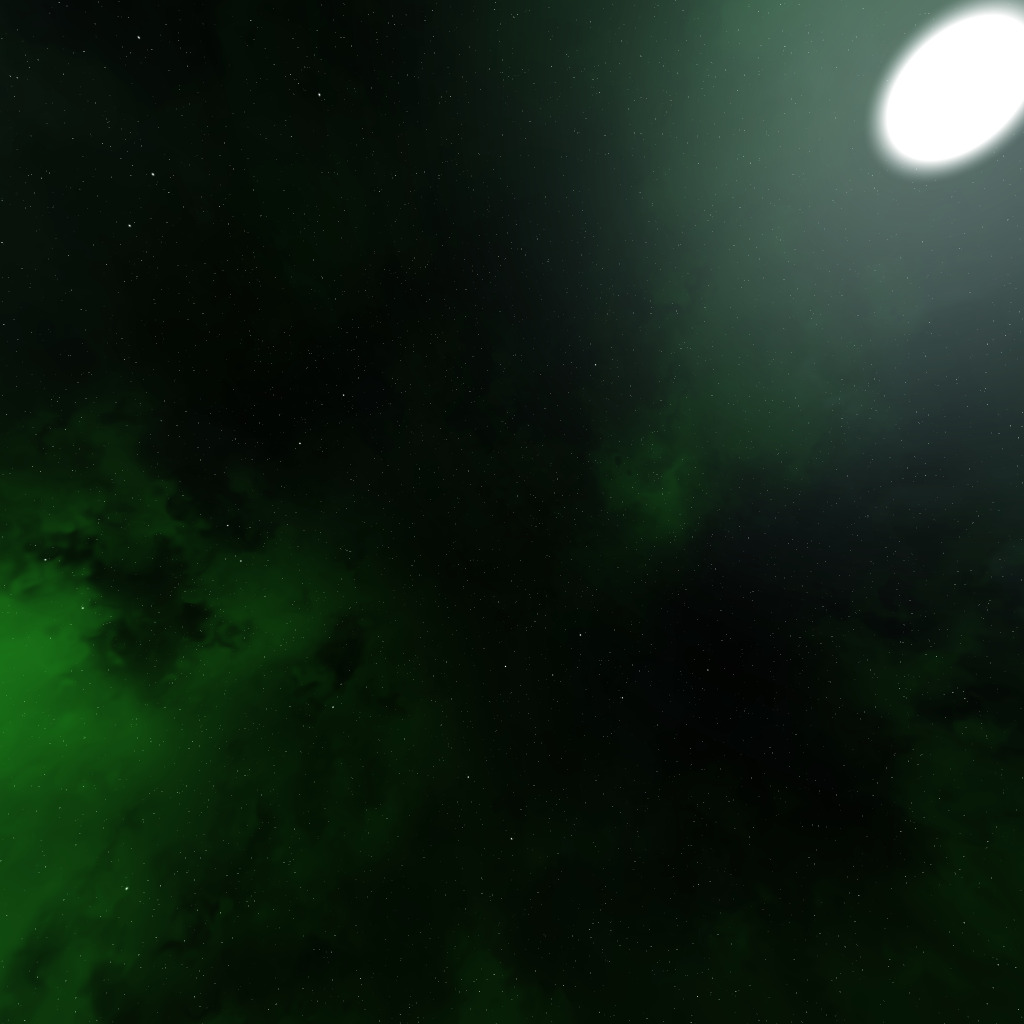
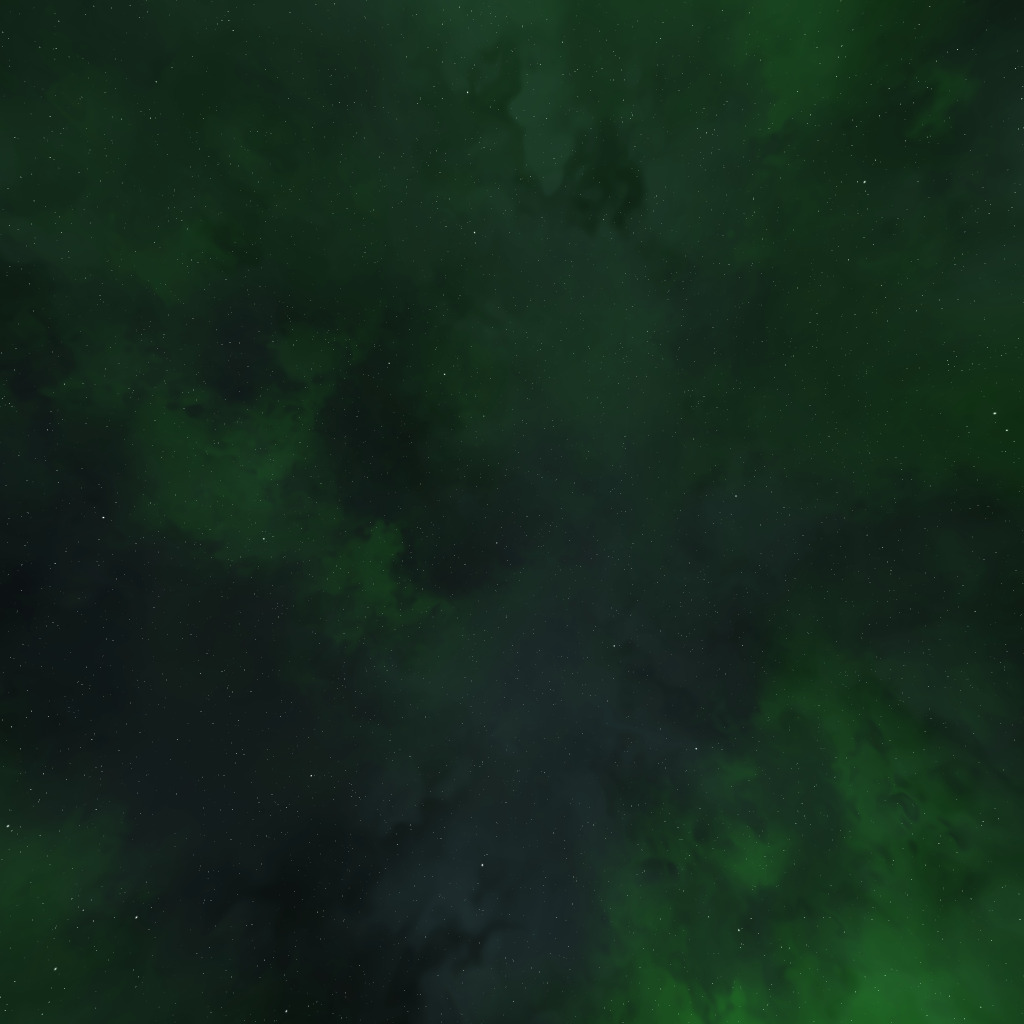
Skybox Works

diff --git a/code/src/render.cpp b/code/src/render.cpp
@@ -356,47 +356,47 @@ namespace CubeMap {
 
 	float skyboxVertices[] = {
 		// positions          
-		-1.0f,  1.0f, -1.0f,
-		-1.0f, -1.0f, -1.0f,
-		 1.0f, -1.0f, -1.0f,
-		 1.0f, -1.0f, -1.0f,
-		 1.0f,  1.0f, -1.0f,
-		-1.0f,  1.0f, -1.0f,
+		-10.0f,  10.0f, -10.0f,
+		-10.0f, -10.0f, -10.0f,
+		 10.0f, -10.0f, -10.0f,
+		 10.0f, -10.0f, -10.0f,
+		 10.0f,  10.0f, -10.0f,
+		-10.0f,  10.0f, -10.0f,
+		
+		-10.0f, -10.0f,  10.0f,
+		-10.0f, -10.0f, -10.0f,
+		-10.0f,  10.0f, -10.0f,
+		-10.0f,  10.0f, -10.0f,
+		-10.0f,  10.0f,  10.0f,
+		-10.0f, -10.0f,  10.0f,
 
-		-1.0f, -1.0f,  1.0f,
-		-1.0f, -1.0f, -1.0f,
-		-1.0f,  1.0f, -1.0f,
-		-1.0f,  1.0f, -1.0f,
-		-1.0f,  1.0f,  1.0f,
-		-1.0f, -1.0f,  1.0f,
+		 10.0f, -10.0f, -10.0f,
+		 10.0f, -10.0f,  10.0f,
+		 10.0f,  10.0f,  10.0f,
+		 10.0f,  10.0f,  10.0f,
+		 10.0f,  10.0f, -10.0f,
+		 10.0f, -10.0f, -10.0f,
 
-		 1.0f, -1.0f, -1.0f,
-		 1.0f, -1.0f,  1.0f,
-		 1.0f,  1.0f,  1.0f,
-		 1.0f,  1.0f,  1.0f,
-		 1.0f,  1.0f, -1.0f,
-		 1.0f, -1.0f, -1.0f,
+		-10.0f, -10.0f,  10.0f,
+		-10.0f,  10.0f,  10.0f,
+		 10.0f,  10.0f,  10.0f,
+		 10.0f,  10.0f,  10.0f,
+		 10.0f, -10.0f,  10.0f,
+		-10.0f, -10.0f,  10.0f,
 
-		-1.0f, -1.0f,  1.0f,
-		-1.0f,  1.0f,  1.0f,
-		 1.0f,  1.0f,  1.0f,
-		 1.0f,  1.0f,  1.0f,
-		 1.0f, -1.0f,  1.0f,
-		-1.0f, -1.0f,  1.0f,
-
-		-1.0f,  1.0f, -1.0f,
-		 1.0f,  1.0f, -1.0f,
-		 1.0f,  1.0f,  1.0f,
-		 1.0f,  1.0f,  1.0f,
-		-1.0f,  1.0f,  1.0f,
-		-1.0f,  1.0f, -1.0f,
-
-		-1.0f, -1.0f, -1.0f,
-		-1.0f, -1.0f,  1.0f,
-		 1.0f, -1.0f, -1.0f,
-		 1.0f, -1.0f, -1.0f,
-		-1.0f, -1.0f,  1.0f,
-		 1.0f, -1.0f,  1.0f
+		-10.0f,  10.0f, -10.0f,
+		 10.0f,  10.0f, -10.0f,
+		 10.0f,  10.0f,  10.0f,
+		 10.0f,  10.0f,  10.0f,
+		-10.0f,  10.0f,  10.0f,
+		-10.0f,  10.0f, -10.0f,
+	
+		-10.0f, -10.0f, -10.0f,
+		-10.0f, -10.0f,  10.0f,
+		 10.0f, -10.0f, -10.0f,
+		 10.0f, -10.0f, -10.0f,
+		-10.0f, -10.0f,  10.0f,
+		 10.0f, -10.0f,  10.0f
 	};
 
 	std::vector<std::string> faces
@@ -439,8 +439,9 @@ namespace CubeMap {
 	void draw() {
 		glDepthFunc(GL_LEQUAL);
 		cubeMapShader.Use();
-
-		cubeMapShader.SetMat4("view", 1, GL_FALSE, glm::value_ptr(RV::_modelView));
+		
+		glm::mat4 cameraPoint = glm::translate(RV::_modelView, glm::vec3(glm::inverse(RV::_modelView)[3]));
+		cubeMapShader.SetMat4("view", 1, GL_FALSE, glm::value_ptr(cameraPoint));
 		cubeMapShader.SetMat4("projection", 1, GL_FALSE, glm::value_ptr(RV::_projection));
 
 		glBindVertexArray(skyboxVAO);
